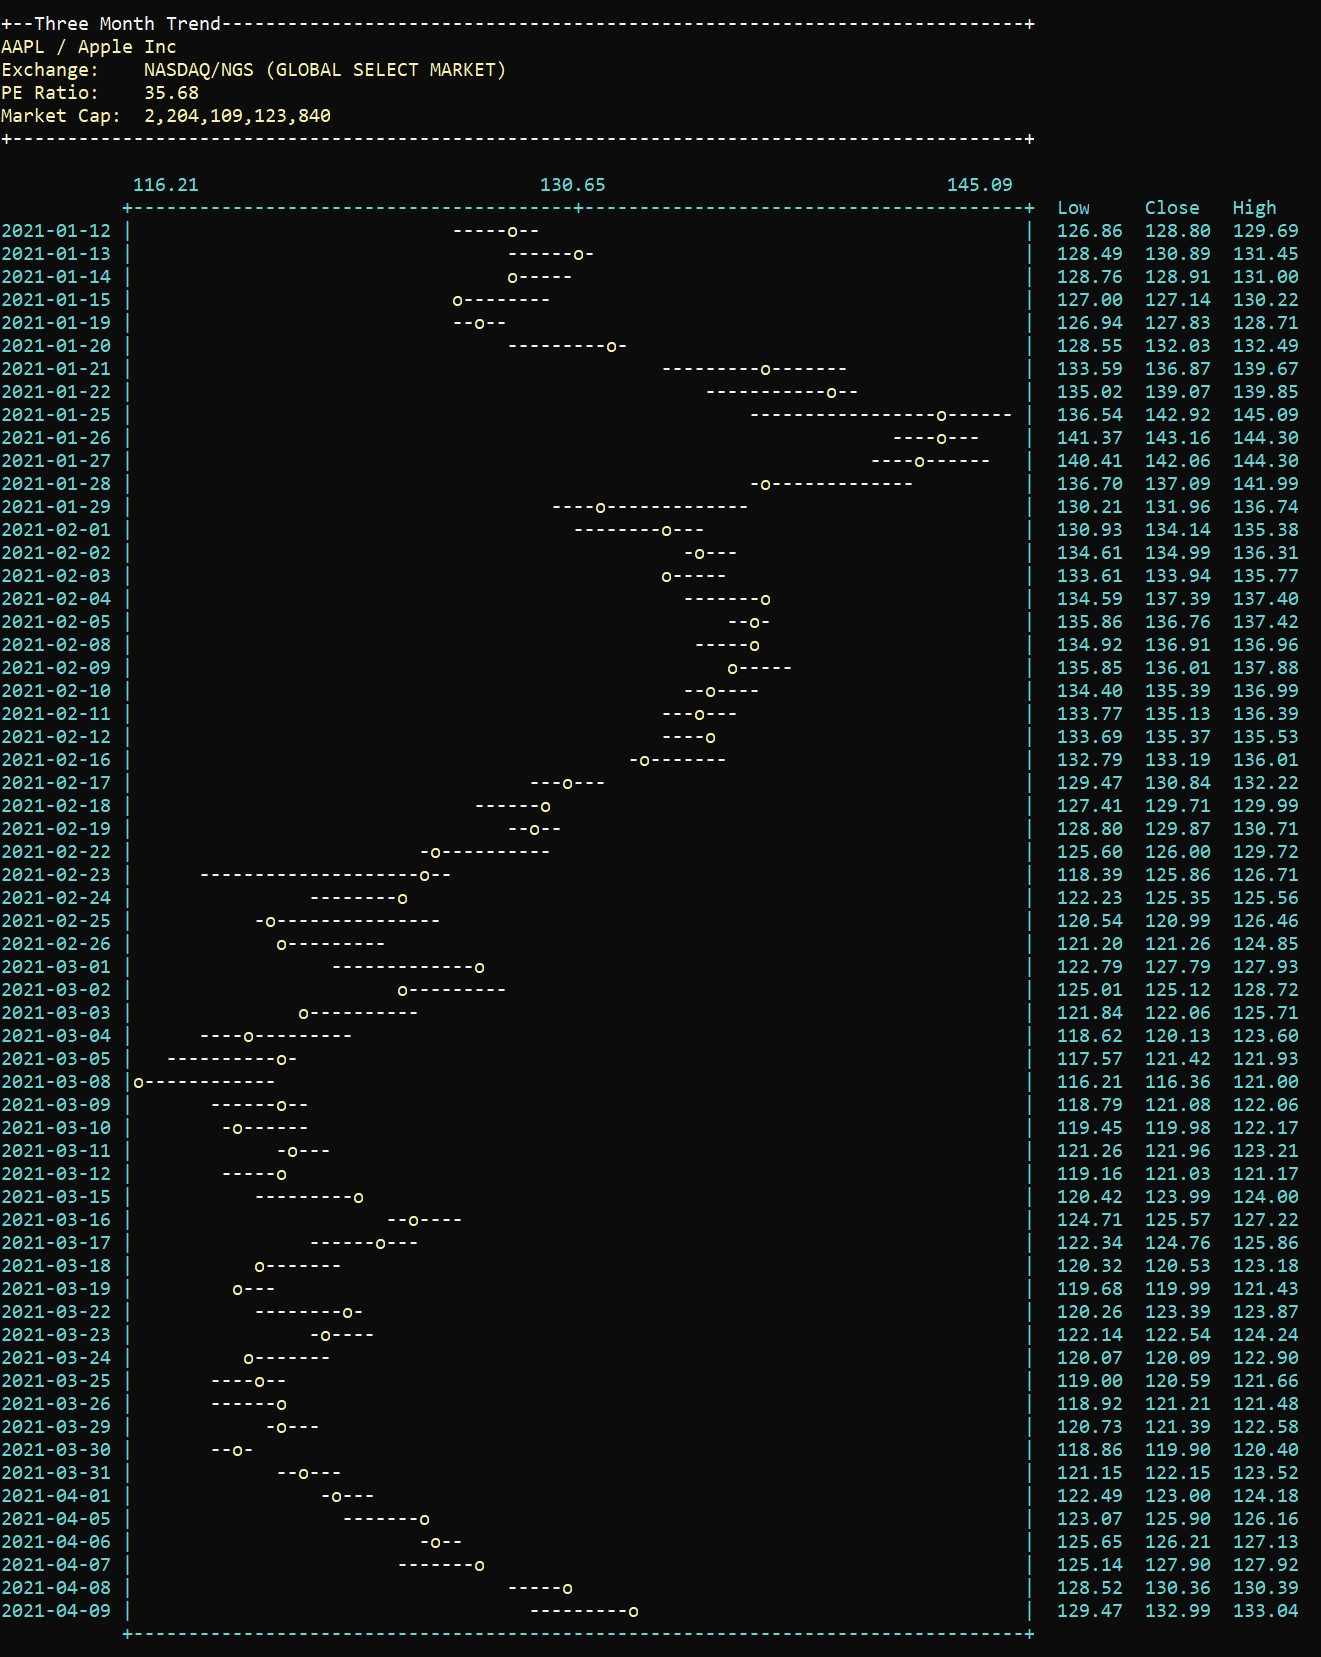
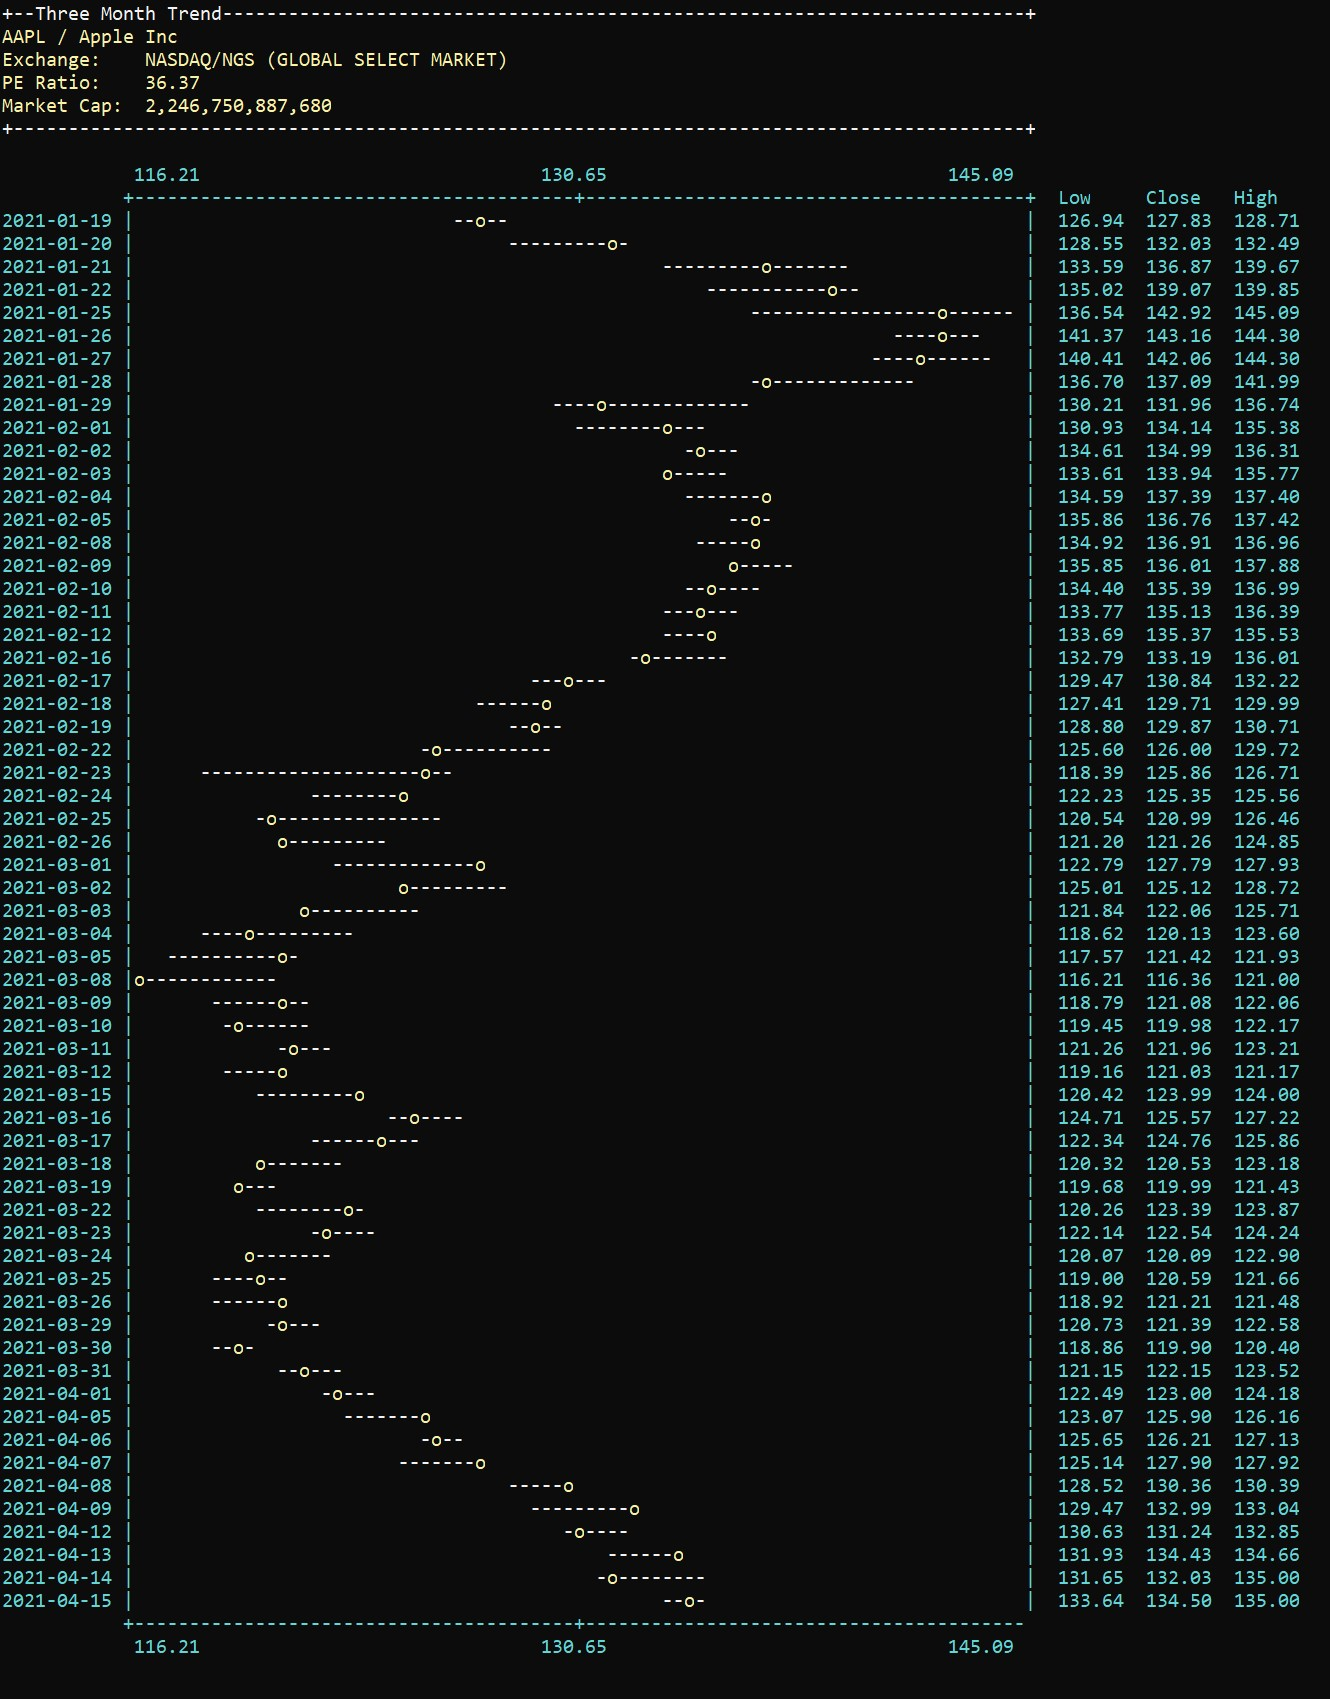
Tweaked trending footer to add low/mid/high prices

diff --git a/src/main/java/org/fross/quoter/HistoricalQuotes.java b/src/main/java/org/fross/quoter/HistoricalQuotes.java
@@ -179,8 +179,6 @@ public class HistoricalQuotes {
 		Output.printColorln(Ansi.Color.WHITE, "+" + "-".repeat(GRAPHWIDTH + 12) + "+\n");
 
 		// Display trending title bar
-		// Output.printColorln(Ansi.Color.CYAN, " ".repeat(12) + sv + " ".repeat(GRAPHWIDTH -
-		// sv.toString().length() - lv.toString().length() + 1) + lv);
 		String midNumber = String.format("%.2f", ((sv + lv) / 2));
 		int titleSpaces1 = (GRAPHWIDTH / 2) - sv.toString().length() - (int) midNumber.length() / 2;
 		int titleSpaces2 = GRAPHWIDTH - sv.toString().length() - titleSpaces1 - lv.toString().length() - lv.toString().length();
@@ -222,8 +220,9 @@ public class HistoricalQuotes {
 			}
 		}
 
-		// Footer
-		Output.printColor(Ansi.Color.CYAN, " ".repeat(11) + "+" + "-".repeat(GRAPHWIDTH / 2) + "+" + "-".repeat(GRAPHWIDTH / 2) + "+\n\n");
+		// Display the Footer
+		Output.printColorln(Ansi.Color.CYAN, " ".repeat(11) + "+" + "-".repeat(GRAPHWIDTH / 2) + "+" + "-".repeat(GRAPHWIDTH / 2));
+		Output.printColorln(Ansi.Color.CYAN, " ".repeat(12) + sv + " ".repeat(titleSpaces1) + midNumber + " ".repeat(titleSpaces2) + lv + "\n\n");
 	}
 
 }
